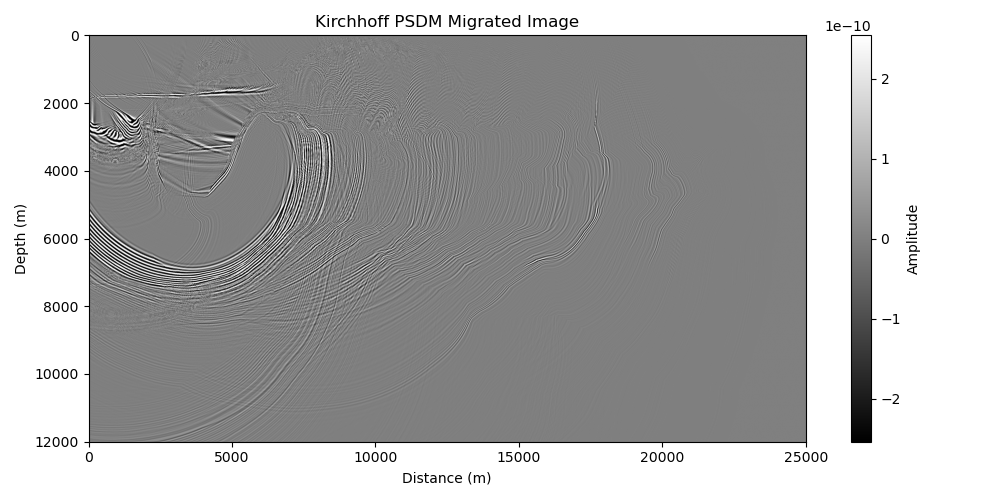
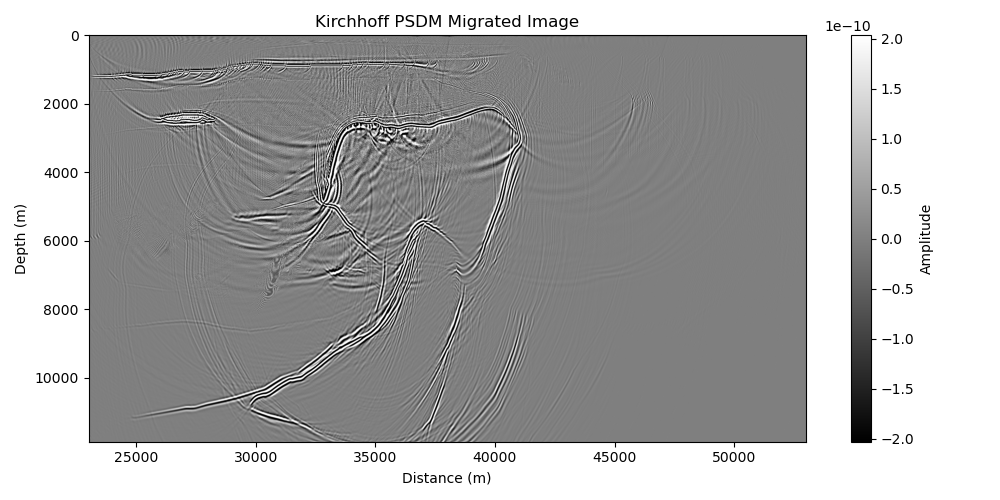
fix: added verbose flag for shotgen-gpu
Added a verbose flag for the shotgen-gpu tool that, when enabled,
outputs GPU runtime statistics

diff --git a/packages/shotgen-gpu/src/shotgen_gpu/cli.py b/packages/shotgen-gpu/src/shotgen_gpu/cli.py
@@ -2,6 +2,7 @@ import os
 import sys
 import json
 import argparse
+import time
 import numpy as np
 import h5py
 from pathlib import Path
@@ -118,6 +119,7 @@ def main():
     parser = argparse.ArgumentParser(description="shotgen-gpu: Devito/OpenACC wavefield propagation & RTM CLI")
     parser.add_argument("--config", "-c", type=str, required=True, help="Path to JSON configuration file")
     parser.add_argument("--cli", action="store_true", help="Display the first shot record on the terminal using chafa after simulation")
+    parser.add_argument("-v", "--verbose", action="store_true", help="Display GPU runtime and verbose simulation output when complete")
     args = parser.parse_args()
 
     config_path = Path(args.config)
@@ -128,8 +130,10 @@ def main():
     with open(config_path, "r") as f:
         cfg = json.load(f)
 
+    verbose_enabled = args.verbose or cfg.get("verbose", False)
+
     device = cfg.get("device", "auto")
-    configured_device = configure_devito_device(device)
+    configured_device = configure_devito_device(device, verbose=verbose_enabled)
     print(f"[shotgen-gpu CLI] Configured device: {configured_device.upper()}")
 
     task_type = cfg.get("task", "simulation")
@@ -137,9 +141,9 @@ def main():
     cli_enabled = args.cli or cfg.get("cli", False)
 
     if task_type == "simulation":
-        _run_simulation_cli(cfg, cli_enabled=cli_enabled)
+        _run_simulation_cli(cfg, cli_enabled=cli_enabled, verbose=verbose_enabled)
     elif task_type == "rtm":
-        _run_rtm_cli(cfg)
+        _run_rtm_cli(cfg, verbose=verbose_enabled)
     else:
         print(f"Error: Unknown task type '{task_type}' in config", file=sys.stderr)
         sys.exit(1)
@@ -151,7 +155,8 @@ def _parse_val(val, default, val_type=float):
     return val_type(val)
 
 
-def _run_simulation_cli(cfg: dict, cli_enabled: bool = False):
+def _run_simulation_cli(cfg: dict, cli_enabled: bool = False, verbose: bool = False):
+    t_start = time.time()
     vel, nx, nz, dx, dz = _load_velocity_model(cfg)
 
     n_sources = _parse_val(cfg.get("n_sources"), 2, int)
@@ -222,6 +227,7 @@ def _run_simulation_cli(cfg: dict, cli_enabled: bool = False):
         float_type=float_type,
         device=cfg.get("device", "auto"),
         fs_ms=fs_ms,
+        verbose=verbose,
     )
     shot_rec.set_model(vel)
 
@@ -254,6 +260,7 @@ def _run_simulation_cli(cfg: dict, cli_enabled: bool = False):
         smooth=smooth,
         device=cfg.get("device", "auto"),
         float_type=float_type,
+        verbose=verbose,
     )
 
     shot_run, us, wavelet = solver.run(ms=ms, save_wavefield=cfg.get("save_wavefield", False))
@@ -334,14 +341,18 @@ def _run_simulation_cli(cfg: dict, cli_enabled: bool = False):
         f.create_dataset("ms", data=ms)
         f.create_dataset("f0", data=f0)
 
+    t_elapsed = time.time() - t_start
     print(f"[shotgen-gpu CLI] Wavefield simulation complete! SEGY and HDF5 written to: {output_dir}")
+    if verbose:
+        print(f"[shotgen-gpu CLI] GPU runtime: {t_elapsed:.3f} s")
 
     if cli_enabled:
         shot_rec.show_shot(cli=True, source_idx=0)
 
 
 
-def _run_rtm_cli(cfg: dict):
+def _run_rtm_cli(cfg: dict, verbose: bool = False):
+    t_start = time.time()
     dataset_dir = cfg.get("dataset_dir")
     nbl = cfg.get("nbl", 40)
     space_order = cfg.get("space_order", 4)
@@ -352,6 +363,7 @@ def _run_rtm_cli(cfg: dict):
         nbl=nbl,
         space_order=space_order,
         device=device,
+        verbose=verbose,
     )
     image = rtm.run(save_wavefield=False)
 
@@ -359,7 +371,10 @@ def _run_rtm_cli(cfg: dict):
     output_dir.mkdir(parents=True, exist_ok=True)
     out_file = output_dir / "rtm_image.npy"
     np.save(out_file, image)
+    t_elapsed = time.time() - t_start
     print(f"[shotgen-gpu CLI] RTM complete! Image written to: {out_file}")
+    if verbose:
+        print(f"[shotgen-gpu CLI] GPU runtime: {t_elapsed:.3f} s")
 
 
 if __name__ == "__main__":

diff --git a/tests/test_verbose_flag.py b/tests/test_verbose_flag.py
@@ -1,0 +1,106 @@
+import os
+import json
+import pytest
+from pathlib import Path
+
+from shotgen_gpu.config import configure_devito_device
+from shotgen_gpu.cli import _run_simulation_cli
+
+
+def test_configure_devito_device_verbose():
+    """Verify that configure_devito_device toggles NVCOMPILER_ACC_TIME environment variable based on verbose flag."""
+    configure_devito_device("cpu", verbose=False)
+    assert os.environ.get("NVCOMPILER_ACC_TIME") == "0"
+
+    configure_devito_device("cpu", verbose=True)
+    assert os.environ.get("NVCOMPILER_ACC_TIME") == "1"
+
+    # Reset back to default (verbose=False)
+    configure_devito_device("cpu", verbose=False)
+    assert os.environ.get("NVCOMPILER_ACC_TIME") == "0"
+
+
+def test_simulation_cli_verbose_output(tmp_path, capsys):
+    """Verify that GPU runtime verbose info is displayed when verbose=True and hidden when verbose=False."""
+    out_dir_quiet = tmp_path / "quiet_sim"
+    cfg_quiet = {
+        "task": "simulation",
+        "velocity_model": "marmousi",
+        "dx": 10.0,
+        "dz": 10.0,
+        "nx": 30,
+        "nz": 30,
+        "n_sources": 1,
+        "n_receivers": 4,
+        "ms": 50.0,
+        "f0": 25.0,
+        "engine": "devito",
+        "device": "cpu",
+        "output_dir": str(out_dir_quiet),
+    }
+
+    _run_simulation_cli(cfg_quiet, verbose=False)
+    captured_quiet = capsys.readouterr()
+    assert "GPU runtime:" not in captured_quiet.out
+    assert os.environ.get("NVCOMPILER_ACC_TIME") == "0"
+
+    out_dir_verbose = tmp_path / "verbose_sim"
+    cfg_verbose = {
+        "task": "simulation",
+        "velocity_model": "marmousi",
+        "dx": 10.0,
+        "dz": 10.0,
+        "nx": 30,
+        "nz": 30,
+        "n_sources": 1,
+        "n_receivers": 4,
+        "ms": 50.0,
+        "f0": 25.0,
+        "engine": "devito",
+        "device": "cpu",
+        "output_dir": str(out_dir_verbose),
+    }
+
+    _run_simulation_cli(cfg_verbose, verbose=True)
+    captured_verbose = capsys.readouterr()
+    assert "GPU runtime:" in captured_verbose.out
+    assert os.environ.get("NVCOMPILER_ACC_TIME") == "1"
+
+
+def test_cli_main_verbose(tmp_path, monkeypatch, capsys):
+    """Verify that shotgen-gpu CLI main parses -v flag properly."""
+    from shotgen_gpu.cli import main
+
+    cfg_file = tmp_path / "test_cfg.json"
+    out_dir = tmp_path / "main_out"
+    cfg = {
+        "task": "simulation",
+        "velocity_model": "marmousi",
+        "dx": 10.0,
+        "dz": 10.0,
+        "nx": 30,
+        "nz": 30,
+        "n_sources": 1,
+        "n_receivers": 4,
+        "ms": 50.0,
+        "f0": 25.0,
+        "engine": "devito",
+        "device": "cpu",
+        "output_dir": str(out_dir),
+    }
+    with open(cfg_file, "w") as f:
+        json.dump(cfg, f)
+
+    # Test quiet run
+    monkeypatch.setattr("sys.argv", ["shotgen-gpu", "--config", str(cfg_file)])
+    main()
+    cap_quiet = capsys.readouterr()
+    assert "GPU runtime:" not in cap_quiet.out
+    assert os.environ.get("NVCOMPILER_ACC_TIME") == "0"
+
+    # Test verbose run with -v
+    monkeypatch.setattr("sys.argv", ["shotgen-gpu", "--config", str(cfg_file), "-v"])
+    main()
+    cap_verbose = capsys.readouterr()
+    assert "GPU runtime:" in cap_verbose.out
+    assert os.environ.get("NVCOMPILER_ACC_TIME") == "1"

diff --git a/packages/shotgen-gpu/src/shotgen_gpu/config.py b/packages/shotgen-gpu/src/shotgen_gpu/config.py
@@ -26,7 +26,7 @@ _disable_torch_import()
 os.environ["ACC_DEVICE_TYPE"] = "nvidia"
 os.environ["ACC_DEVICE_NUM"] = "0"
 os.environ["CUDA_VISIBLE_DEVICES"] = "0"
-os.environ["NVCOMPILER_ACC_TIME"] = "1"
+os.environ["NVCOMPILER_ACC_TIME"] = "0"
 os.environ["OMP_TARGET_OFFLOAD"] = "DISABLED"
 os.environ["NVCOMPILER_ACC_NOTIFY"] = "0"
 
@@ -96,10 +96,15 @@ def _check_cuda_lib():
     return False
 
 
-def configure_devito_device(device="auto", platform=None, compiler=None, language=None):
+def configure_devito_device(device="auto", platform=None, compiler=None, language=None, verbose=False):
     """
     Configures Devito environment variables and runtime settings for CUDA GPU or CPU.
     """
+    if verbose:
+        os.environ["NVCOMPILER_ACC_TIME"] = "1"
+    else:
+        os.environ["NVCOMPILER_ACC_TIME"] = "0"
+
     if device == "auto" or device is None:
         device = detect_device()
 
@@ -119,7 +124,7 @@ def configure_devito_device(device="auto", platform=None, compiler=None, languag
                 "Falling back to CPU execution.",
                 category=UserWarning
             )
-            return configure_devito_device("cpu")
+            return configure_devito_device("cpu", verbose=verbose)
 
         target_platform = platform if platform else "nvidiaX"
         target_compiler = gpu_compiler
@@ -139,7 +144,7 @@ def configure_devito_device(device="auto", platform=None, compiler=None, languag
             configuration["language"] = target_language
         except Exception as e:
             warnings.warn(f"Failed to set Devito GPU configuration ({e}). Falling back to CPU.", category=UserWarning)
-            return configure_devito_device("cpu")
+            return configure_devito_device("cpu", verbose=verbose)
         device = "cuda"
     else:
         target_platform = platform if platform else "intel64"

diff --git a/packages/shotgen-core/src/shotgen/sampleshot.py b/packages/shotgen-core/src/shotgen/sampleshot.py
@@ -45,13 +45,13 @@ def detect_device():
     return "cpu"
 
 
-def configure_devito_device(device="auto", platform=None, compiler=None, language=None):
+def configure_devito_device(device="auto", platform=None, compiler=None, language=None, verbose=False):
     """
     Configures Devito environment variables and runtime settings if shotgen-gpu is installed.
     """
     try:
         from shotgen_gpu.config import configure_devito_device as _config_gpu
-        return _config_gpu(device=device, platform=platform, compiler=compiler, language=language)
+        return _config_gpu(device=device, platform=platform, compiler=compiler, language=language, verbose=verbose)
     except ImportError:
         return "cpu"
 
@@ -112,11 +112,13 @@ class ShotRecord:
         engine="pylops",
         float_type=np.float32,
         device="auto",
-        fs_ms=None
+        fs_ms=None,
+        verbose=False
     ):
         self.engine = engine
         self.float_type = float_type
         self.fs_ms = fs_ms
+        self.verbose = verbose
 
         # Device detection and setup
         if engine.lower() == "pylops" and (device == "auto" or device is None):
@@ -136,7 +138,7 @@ class ShotRecord:
         else:
             raise ValueError(f"Invalid device '{device}'. Expected 'auto', 'cpu', or 'cuda'.")
 
-        self.device = configure_devito_device(self.device)
+        self.device = configure_devito_device(self.device, verbose=self.verbose)
 
         self.nx = nx
         self.nz = nz

diff --git a/packages/shotgen-core/src/shotgen/runner.py b/packages/shotgen-core/src/shotgen/runner.py
@@ -5,24 +5,30 @@ import tempfile
 from pathlib import Path
 
 
-def run_gpu_simulation(config_file: str, cli: bool = False) -> None:
+def run_gpu_simulation(config_file: str, cli: bool = False, verbose: bool = False) -> None:
     """Executes shotgen-gpu in a fresh OS subprocess to isolate C/CUDA runtimes."""
     cmd = [sys.executable, "-m", "shotgen_gpu.cli", "--config", str(config_file)]
     if cli:
         cmd.append("--cli")
+    if verbose:
+        cmd.append("-v")
     result = subprocess.run(cmd, capture_output=True, text=True)
     if result.returncode != 0:
         raise RuntimeError(f"GPU Simulation process failed:\n{result.stderr}")
     print(result.stdout)
 
 
-def run_gpu_simulation_dict(cfg: dict, cli: bool = False) -> dict:
+def run_gpu_simulation_dict(cfg: dict, cli: bool = False, verbose: bool = False) -> dict:
     """Helper to run a GPU simulation from a dictionary config via subprocess bridge."""
     with tempfile.NamedTemporaryFile("w", suffix=".json", delete=False) as tmp:
         json.dump(cfg, tmp)
         tmp_path = tmp.name
 
     try:
-        run_gpu_simulation(tmp_path, cli=cli or cfg.get("cli", False))
+        run_gpu_simulation(
+            tmp_path,
+            cli=cli or cfg.get("cli", False),
+            verbose=verbose or cfg.get("verbose", False),
+        )
     finally:
         Path(tmp_path).unlink(missing_ok=True)

diff --git a/packages/shotgen-gpu/src/shotgen_gpu/engine/rtm.py b/packages/shotgen-gpu/src/shotgen_gpu/engine/rtm.py
@@ -87,9 +87,11 @@ class ReverseTimeMigration:
         time_order: int = 2,
         dtype=np.float32,
         device="auto",
+        verbose: bool = False,
         **kwargs,
     ):
-        configure_devito_device(device)
+        self.verbose = verbose
+        configure_devito_device(device, verbose=verbose)
         if dataset_dir is not None:
             vp, sources, receivers, shots, time, f0, dx, dz = load_dataset_dir_gpu(dataset_dir, require_f0=True, provided_f0=f0)
             spacing = (dx, dz)

diff --git a/packages/shotgen-gpu/src/shotgen_gpu/engine/solver.py b/packages/shotgen-gpu/src/shotgen_gpu/engine/solver.py
@@ -62,8 +62,10 @@ class AcousticWaveSolverWrapper:
         smooth: float = 5.0,
         device: str = "auto",
         float_type=np.float32,
+        verbose: bool = False,
     ):
-        self.device = configure_devito_device(device)
+        self.verbose = verbose
+        self.device = configure_devito_device(device, verbose=verbose)
         self.nx = nx
         self.nz = nz
         self.dx = dx

diff --git a/shotgen/sampleshot.py b/shotgen/sampleshot.py
@@ -20,7 +20,7 @@ import importlib.machinery
 os.environ["ACC_DEVICE_TYPE"] = "nvidia"
 os.environ["ACC_DEVICE_NUM"] = "0"
 os.environ["CUDA_VISIBLE_DEVICES"] = "0"
-os.environ["NVCOMPILER_ACC_TIME"] = "1"
+os.environ["NVCOMPILER_ACC_TIME"] = "0"
 os.environ["OMP_TARGET_OFFLOAD"] = "DISABLED"
 os.environ["NVCOMPILER_ACC_NOTIFY"] = "0"
 

diff --git a/USER_GUIDE.md b/USER_GUIDE.md
@@ -163,10 +163,12 @@ You can execute GPU wave propagation directly from the command line using a JSON
 #### Running the CLI:
 ```bash
 shotgen-gpu --config examples/test_config.json
+# To display GPU runtime profiling stats and verbose simulation details:
+shotgen-gpu --config examples/test_config.json -v
 ```
 or via python:
 ```bash
-python3 -m shotgen_gpu.cli --config examples/test_config.json
+python3 -m shotgen_gpu.cli --config examples/test_config.json -v
 ```
 
 ---
